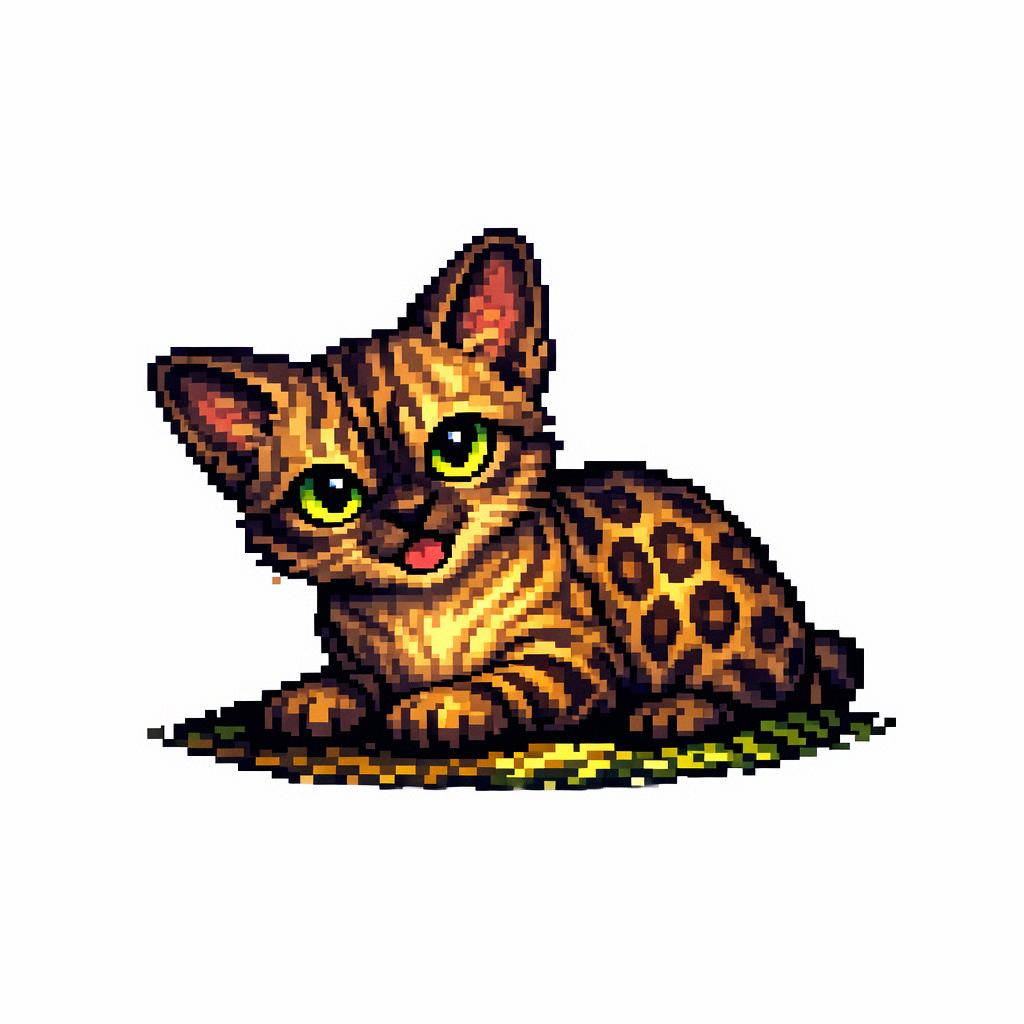
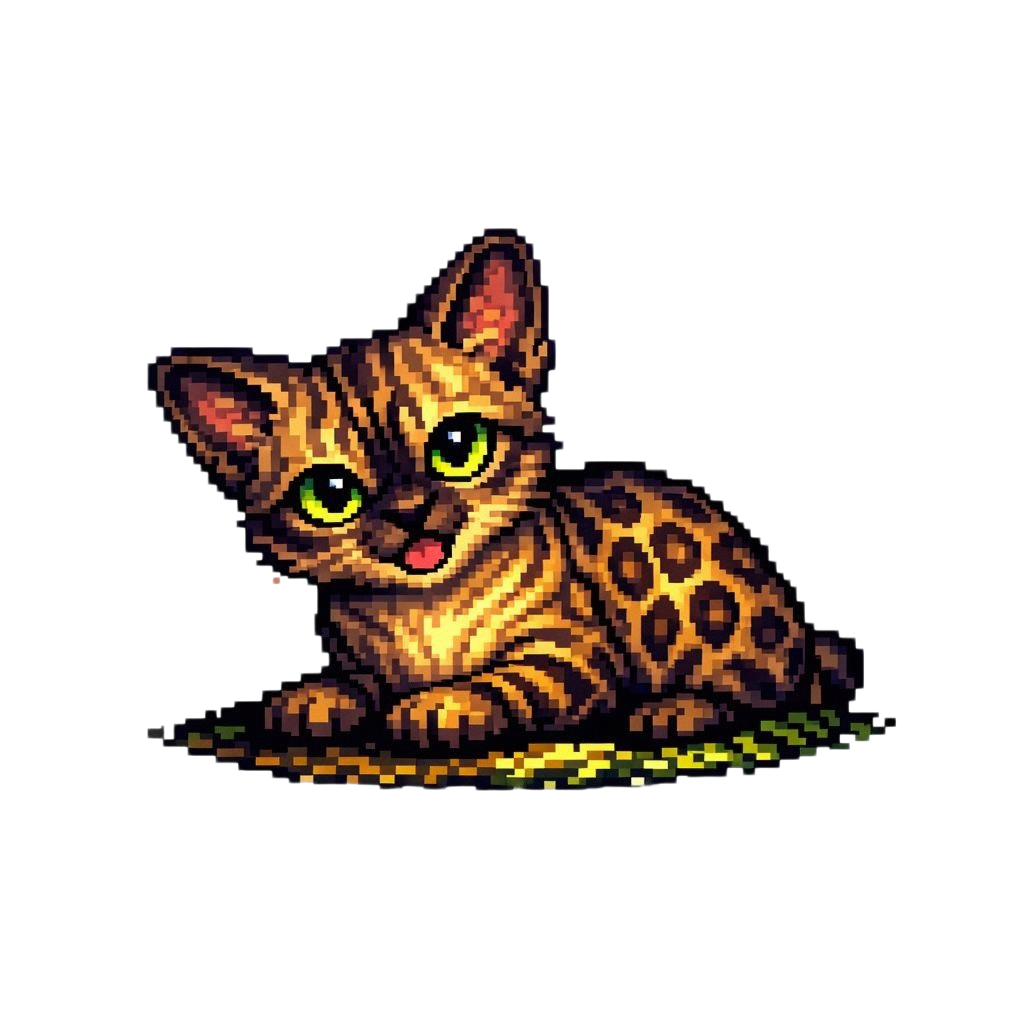
fix: replace bengal cat image; remove emoji from share card tags

diff --git a/index.html b/index.html
@@ -1092,7 +1092,8 @@ function shareResult() {
     r.tags.forEach(t => {
       const s = document.createElement('span');
       s.className = 'sc-tag';
-      s.textContent = t;
+      // 去掉头部 emoji
+      s.textContent = t.replace(/^[\p{Emoji}\p{Emoji_Presentation}\uFE0F\u20E3\u200D]+\s*/u, '');
       scTagsEl.appendChild(s);
     });
   }
